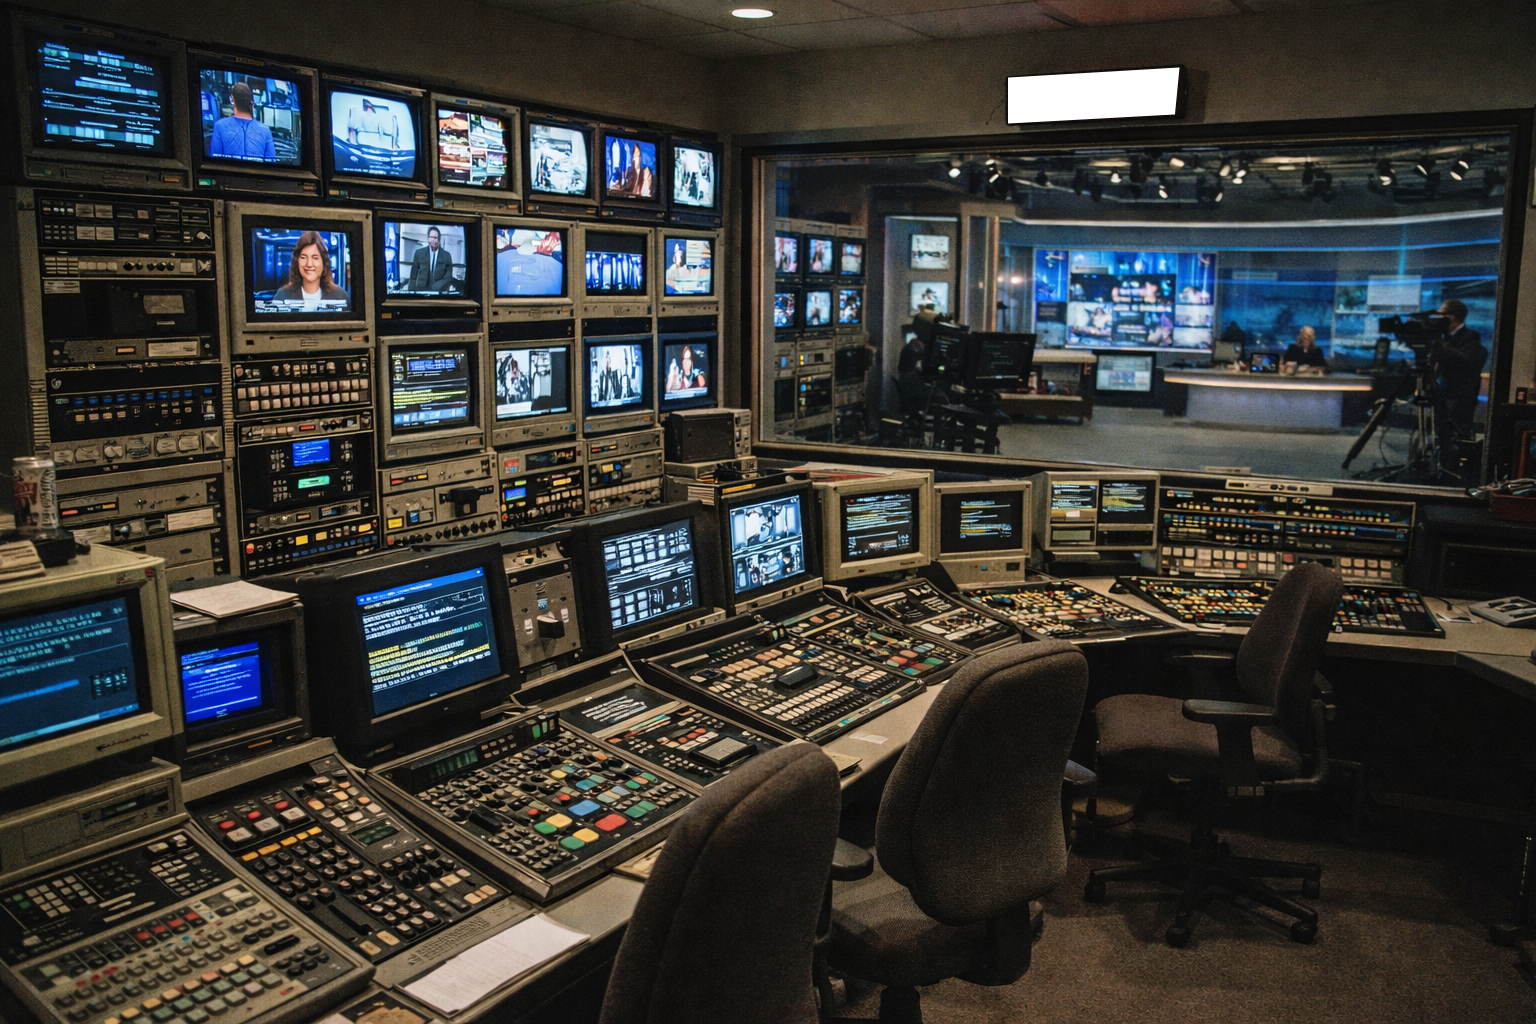
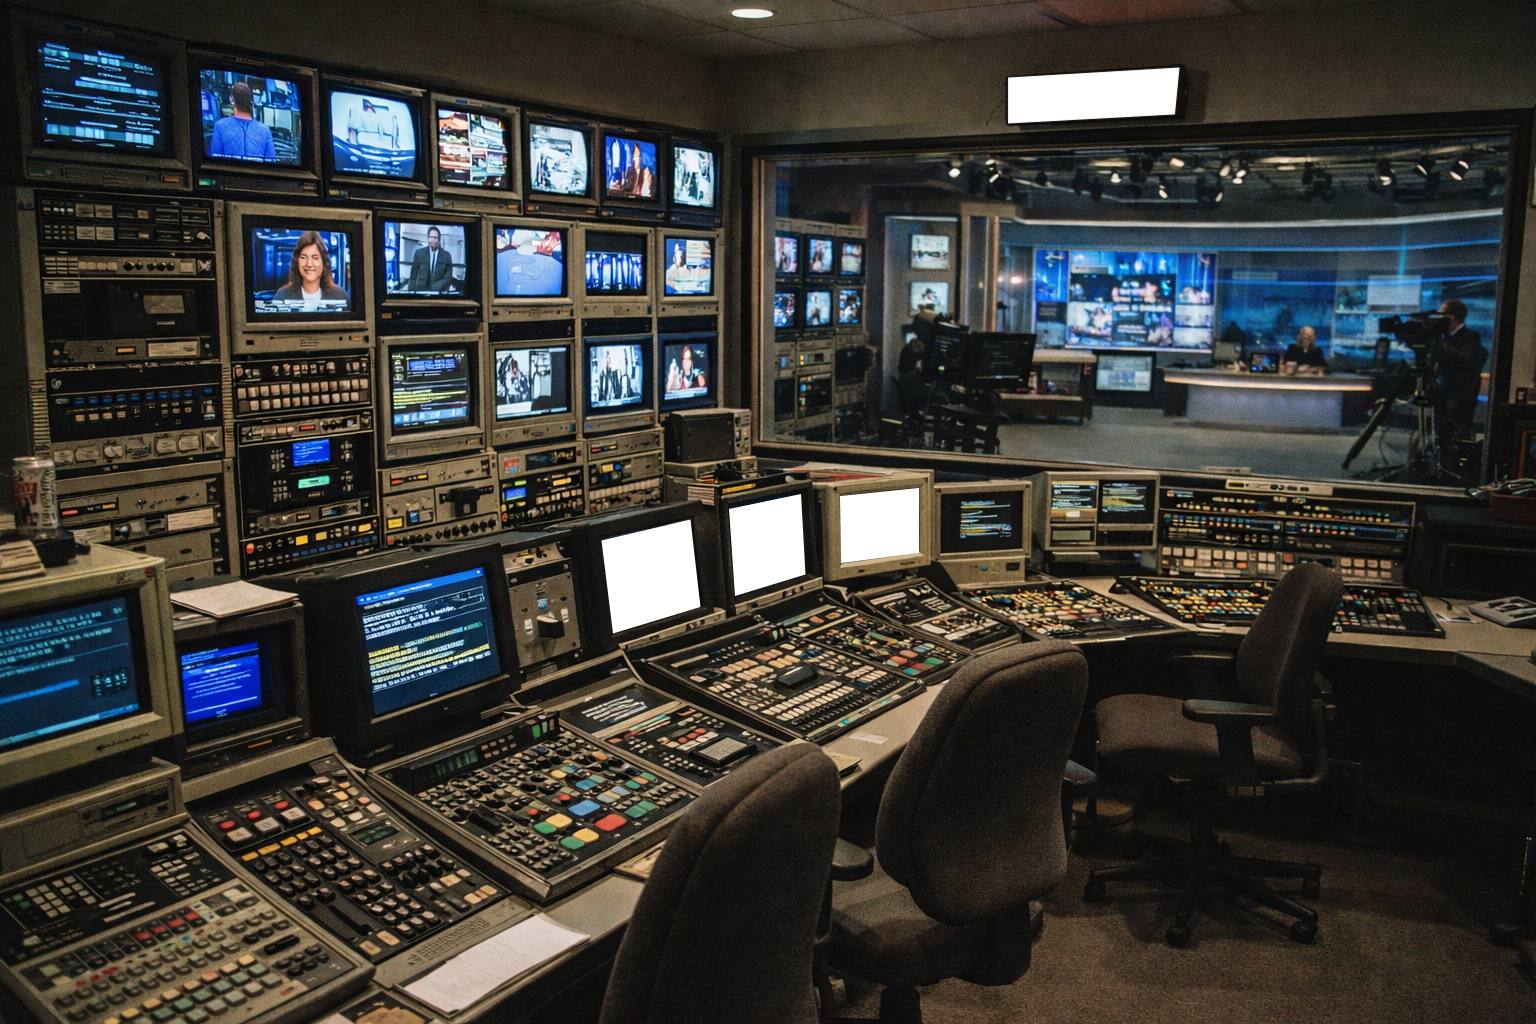
added fading image over 90s media room
added fading image over 90s media room with glitch effect

Changed region(s): [[0.375, 0.4688, 0.625, 0.625]]

diff --git a/styles.css b/styles.css
@@ -1446,6 +1446,7 @@ model-viewer::part(default-ar-button) {
 .christopher-roby-heading {
   font-family: "Limelight", sans-serif;
   color: #f7f7f7;
+  margin-top: 0;
 }
 
 .christopher-roby-information-section th {
@@ -1484,6 +1485,22 @@ model-viewer::part(default-ar-button) {
   font-family: "VT323", Arial, Helvetica, sans-serif;
 }
 
+.modern-day-media-room {
+  position: absolute;
+  top: 0;
+  left: 50%;
+  transform: translateX(-50%);
+  width: 100%;
+  height: 100vh;
+  object-fit: cover;
+
+  z-index: 3; /* MUST be above */
+
+  opacity: 1;
+  animation: modernRoomFade 4s ease-in-out forwards;
+  animation-delay: 0.5s; /* wait 5 seconds BEFORE fading */
+}
+
 .media-room {
   position: absolute;
   top: 0;
@@ -1491,9 +1508,52 @@ model-viewer::part(default-ar-button) {
   transform: translateX(-50%);
   width: 100%;
   height: 100vh;
-  max-width: none;
+  object-fit: cover;
+
+  z-index: 2; /* underneath */
+}
+
+/* GLITCH EFFECT */
+.modern-day-media-room {
+  position: absolute;
+  top: 0;
+  left: 50%;
+  transform: translateX(-50%);
+  width: 100%;
+  height: 100vh;
   object-fit: cover;
   z-index: 3;
+
+  animation: glitchOut 3s steps(2, end) 0.5s forwards;
+}
+
+@keyframes glitchOut {
+  0% {
+    opacity: 1;
+    transform: translateX(-50%) translate(0, 0);
+  }
+  20% {
+    transform: translateX(-50%) translate(-10px, 5px);
+  }
+  25% {
+    opacity: 0.2;
+  }
+  30% {
+    opacity: 1;
+    transform: translateX(-50%) translate(10px, -5px);
+  }
+  40% {
+    opacity: 0.1;
+  }
+  50% {
+    opacity: 1;
+  }
+  70% {
+    opacity: 0.3;
+  }
+  100% {
+    opacity: 0;
+  }
 }
 
 .media-text-box {
@@ -1565,7 +1625,7 @@ model-viewer::part(default-ar-button) {
   /* move these values until it sits in the right place on the image */
   top: 7%;
   left: 65%;
-  rotate: -3.2deg;
+  rotate: -3.3deg;
   z-index: 0;
   padding: 12px 20px;
   width: 40px;
@@ -2314,4 +2374,19 @@ body.is-transitioning .neon-border::before {
   100% {
     background-position: 300% 50%;
   }
+}
+
+/* TV & RADIO PAGE: force-hide during vortex transition */
+body.is-transitioning .media-room-container,
+body.is-transitioning .media-text-layer,
+body.is-transitioning .media-text-box,
+body.is-transitioning .media-text-box.is-visible,
+body.is-transitioning .modern-day-media-room,
+body.is-transitioning .media-room,
+body.is-transitioning .clock,
+body.is-transitioning .neon-border,
+body.is-transitioning .tv-and-radio-information-section {
+  opacity: 0 !important;
+  visibility: hidden !important;
+  pointer-events: none !important;
 }

diff --git a/tv-radio-press-packs/tv-radio-press-packs.html b/tv-radio-press-packs/tv-radio-press-packs.html
@@ -169,8 +169,14 @@
         </div>
 
         <img
-          src="./media-room-with-cutouts.png"
-          alt="industrial tv and media room"
+          src="./media-room-new.webp"
+          alt="modern day industrial tv and media room"
+          class="modern-day-media-room"
+        />
+
+        <img
+          src="./media-room-90s.webp"
+          alt="industrial tv and media room from the 90s"
           class="media-room"
         />
 
